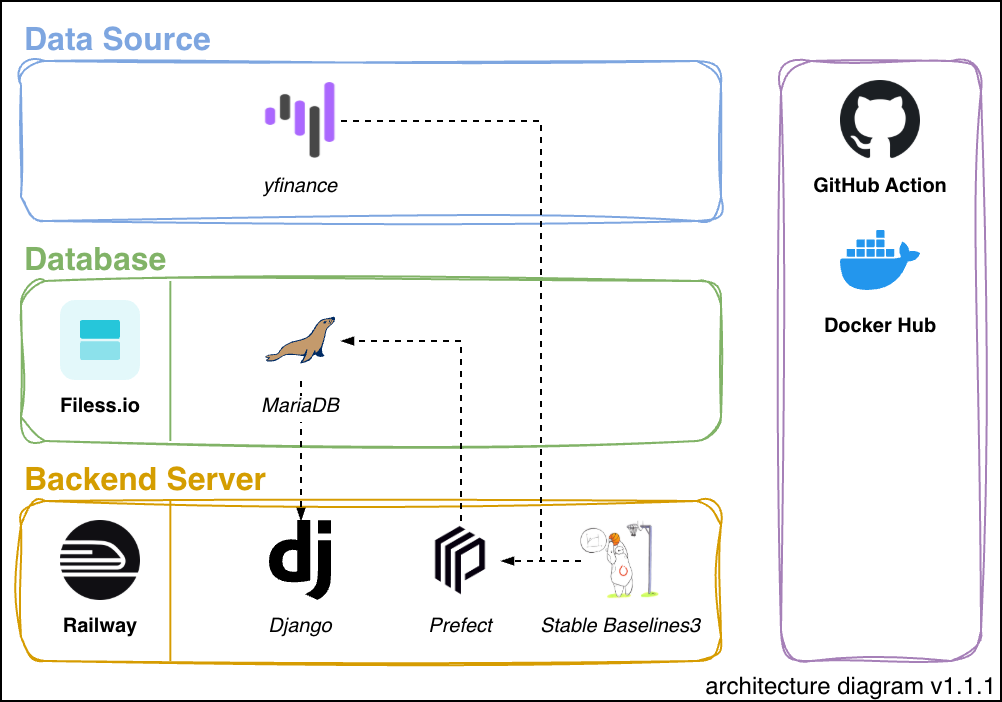
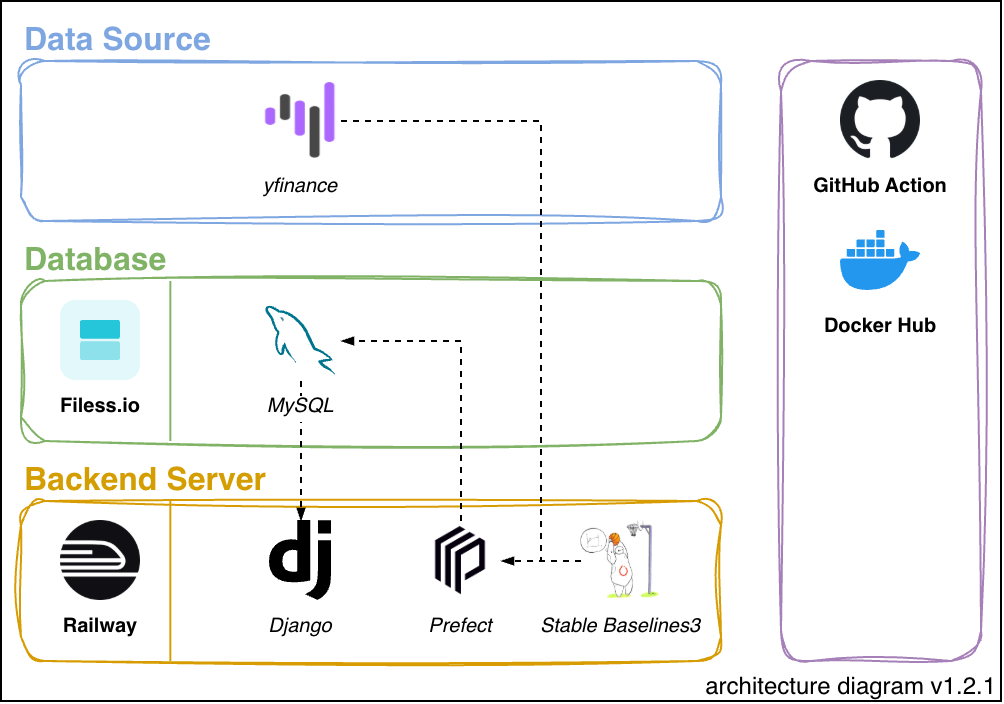
[1.2.1] pipeline resilience and deployment workflow improvements

diff --git a/apps/dashboard/migrations/0001_initial.py b/apps/dashboard/migrations/0001_initial.py
@@ -1,0 +1,33 @@
+from decimal import Decimal
+from django.db import migrations, models
+
+
+class Migration(migrations.Migration):
+
+    initial = True
+
+    dependencies = [
+    ]
+
+    operations = [
+        migrations.CreateModel(
+            name='Dashboard',
+            fields=[
+                ('id', models.BigAutoField(auto_created=True, primary_key=True, serialize=False, verbose_name='ID')),
+                ('agent', models.CharField(max_length=32)),
+                ('trading_date', models.DateField()),
+                ('price_close', models.DecimalField(decimal_places=6, default=Decimal('0'), max_digits=18)),
+                ('price_long', models.DecimalField(blank=True, decimal_places=6, max_digits=18, null=True)),
+                ('price_short', models.DecimalField(blank=True, decimal_places=6, max_digits=18, null=True)),
+                ('portfolio', models.DecimalField(decimal_places=6, default=Decimal('0'), max_digits=18)),
+                ('market_index', models.DecimalField(decimal_places=6, default=Decimal('0'), max_digits=18)),
+                ('risk_free', models.DecimalField(decimal_places=6, default=Decimal('0'), max_digits=18)),
+                ('created_at', models.DateTimeField(db_index=True)),
+            ],
+            options={
+                'db_table': 'dashboard',
+                'ordering': ['agent', 'trading_date'],
+                'constraints': [models.UniqueConstraint(fields=('agent', 'trading_date'), name='dashboard_agent_trading_date_uniq')],
+            },
+        ),
+    ]

diff --git a/apps/dashboard/services/pipeline.py b/apps/dashboard/services/pipeline.py
@@ -121,7 +121,7 @@ def cache_data(df: pd.DataFrame, pth_out: Path) -> None:
     pth_tmp.replace(pth_out)
 
 
-@task(name="Persist database snapshot")
+@task(name="Persist database snapshot", retries=3, retry_delay_seconds=60)
 def persist_snapshot(df: pd.DataFrame, created_at: pd.Timestamp) -> None:
     if df.empty:
         raise ValueError("No dashboard data was generated.")

diff --git a/apps/config/settings.py b/apps/config/settings.py
@@ -101,6 +101,9 @@ DATABASES = {
         "PASSWORD": os.getenv("DB_PASSWORD"),
         "HOST": os.getenv("DB_HOST"),
         "PORT": os.getenv("DB_PORT"),
+        "OPTIONS": {
+            "init_command": "SET SESSION wait_timeout = 600",
+        },
     }
 }
 

diff --git a/README.md b/README.md
@@ -11,7 +11,7 @@ In contrast, Anti-MPT is risk-seeking and argues against the diversification emp
 <div align="right">
   <a href="https://antimpt.up.railway.app/"><img src="https://custom-icon-badges.demolab.com/badge/Django-092E20?logo=django&logoColor=fff"></a>
   <a href="https://docs.google.com/spreadsheets/d/1hZBngU6REh5M9iyUclPlf8IyO3Iz3ZVW1exo_-vM1ks/pubhtml?gid=928431462&single=true"><img src="https://custom-icon-badges.demolab.com/badge/Backlog-319E4F?logo=Google-Sheets&logoColor=fff"></a>
-  <p><strong>First Published:</strong> 17 June 2025<br><strong>Last Updated:</strong> 03 July 2026</p>
+  <p><strong>First Published:</strong> 17 June 2025<br><strong>Last Updated:</strong> 15 August 2026</p>
 </div>
 
 
@@ -91,7 +91,7 @@ Ages ago, a finance professor introduced a [concept](https://massive.com/blog/gr
 ## Behind the Scenes
 Anti‑MPT relies on market data from **Yahoo Finance**, focusing on [WSM](https://finance.yahoo.com/quote/WSM/) (Williams‑Sonoma, Inc.), [XHB](https://finance.yahoo.com/quote/XHB/) (SPDR S&P Homebuilders ETF), and [IRX](https://finance.yahoo.com/quote/^IRX/) (13‑week Treasury bill rate). These tickers power the Anti‑MPT trading dashboard.
 
-After each market close, a scheduled job orchestrated by **Prefect** fetches the latest data and updates Anti‑MPT’s signals to avoid presenting intra‑day moves as financial advice. Trading history is persisted in **MariaDB** and served through a **Django** backend, which drives a browser‑based dashboard for reviewing and analysing performance.
+After each market close, a scheduled job orchestrated by **Prefect** fetches the latest data and updates Anti‑MPT’s signals to avoid presenting intra‑day moves as financial advice. Trading history is persisted in **MySQL** and served through a **Django** backend, which drives a browser‑based dashboard for reviewing and analysing performance.
 
 The web app runs on a **Railway** Free Plan and the database is hosted on the **Filess.io** free tier. Due to free‑tier limits, downtime and delayed updates may occur, and the dashboard may not refresh immediately after the trading day.
 

diff --git a/CHANGELOG.md b/CHANGELOG.md
@@ -1,5 +1,23 @@
 # Changelog
 
+## [1.2.1] - 2026-08-15
+
+Pipeline resilience and deployment workflow improvements.
+
+### Added
+- Added `make pull` target to fetch the latest pipeline container image from Docker Hub.
+- Introduced retry logic with a delay-based retry policy to the `persist_snapshot` task for improved reliability during database writes.
+- Committed the initial `dashboard` migration so a fresh database can be initialised with `manage.py migrate`.
+
+### Changed
+- Expanded `.gitignore` with comprehensive Python packaging patterns and environment management exclusions.
+- Restructured GitHub Actions scheduled pipeline workflow to separate image pulling from pipeline execution with retry loop.
+- Updated `docker compose run pipeline` to never pull images via `--pull never` flag.
+
+### Fixed
+- Guarded against empty inference output and only wrote the Parquet cache after the database transaction committed successfully.
+- Configured MySQL session `wait_timeout` to 600 seconds so abandoned connections release their locks promptly instead of after the 8-hour server default.
+
 ## [1.1.1] - 2026-07-03
 
 Repository restructuring, dependency management overhaul, and container orchestration integration.
